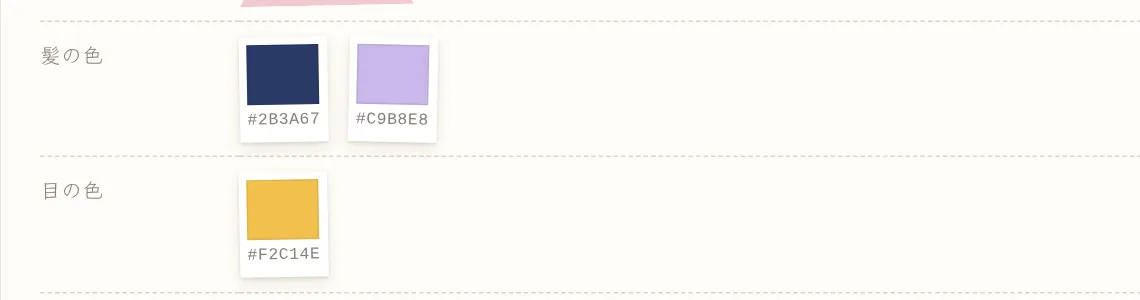
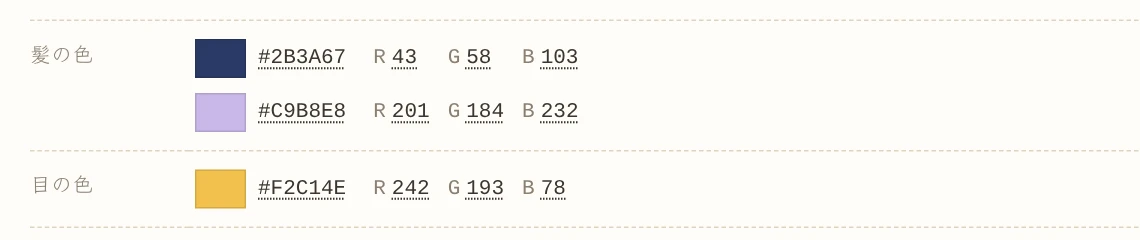
色の RGB を R・G・B ごとにコピーできる表示に変更、マニュアルを更新
Claude-Session: https://claude.ai/code/session_01TtRufu2XhManK9q9q8tut5

diff --git a/app.js b/app.js
@@ -654,7 +654,7 @@ function renderDetail() {
       `<div class="oshi-memo-text" ${memoOpen ? "" : "hidden"}>${esc(memo)}</div>`
     : `<span class="none">未登録</span>`}</dd>`;
 
-  // 色の行 (色見本・カラーコードを押すとカラーコード、RGB を押すと「43, 58, 103」の形でコピー)
+  // 色の行 (色見本・カラーコードを押すとカラーコード、R・G・B を押すとその数字だけをコピー)
   const colorRows = state.colorFields.filter((f) => !hidden.has(f.id)).map((f) => {
     const list = ((v.colors || {})[f.id] || []).filter(isHex);
     const swatches = list.length
@@ -662,7 +662,12 @@ function renderDetail() {
           `<div class="swatch">` +
           `<button type="button" class="swatch-main" data-copy="${hex}" title="押すとカラーコードをコピー">` +
           `<span class="swatch-color" style="background:${hex}"></span><span class="swatch-hex">${hex.toUpperCase()}</span></button>` +
-          `<button type="button" class="swatch-rgb" data-copy="${hexToRgb(hex)}" title="押すと RGB をコピー">RGB ${hexToRgb(hex)}</button>` +
+          `<div class="swatch-rgb">` +
+          hexToRgb(hex).map((n, i) => {
+            const k = "RGB"[i];
+            return `<button type="button" class="rgb-part" data-copy="${n}" title="押すと ${k} の値をコピー"><span class="rgb-key">${k}</span><span class="rgb-num">${n}</span></button>`;
+          }).join("") +
+          `</div>` +
           `</div>`
         ).join("")
       : `<span class="none">未登録</span>`;
@@ -1297,7 +1302,7 @@ const colorRowHtml = (hex) => `
   <div class="color-row">
     <input type="color" value="${hex}">
     <input type="text" class="hex" value="${hex}" maxlength="7" spellcheck="false">
-    <span class="rgb">RGB ${hexToRgb(hex)}</span>
+    <span class="rgb">${rgbText(hex)}</span>
     <button type="button" class="rm" title="この色を削除">✕</button>
   </div>`;
 
@@ -1383,10 +1388,12 @@ function normalizeHex(s) {
   return /^[0-9a-f]{6}$/.test(t) ? "#" + t : null;
 }
 
-// 「#2b3a67」→「43, 58, 103」(RGB の数字をカンマ区切りにする)
+// 「#2b3a67」→ [43, 58, 103] (R・G・B の数字 3 つ)
 function hexToRgb(hex) {
-  return [1, 3, 5].map((i) => parseInt(hex.slice(i, i + 2), 16)).join(", ");
+  return [1, 3, 5].map((i) => parseInt(hex.slice(i, i + 2), 16));
 }
+// 「#2b3a67」→「R 43 G 58 B 103」(編集画面の表示用)
+const rgbText = (hex) => hexToRgb(hex).map((n, i) => `${"RGB"[i]} ${n}`).join(" ");
 
 // カラー入力欄の操作 (中身が作り直されても動くよう、親要素でまとめて受け取る)
 $("#vtuber-inputs").addEventListener("click", (e) => {
@@ -1419,7 +1426,7 @@ $("#vtuber-inputs").addEventListener("input", (e) => {
     if (hex) picker.value = hex;
   }
   // RGB の表示も合わせる (ピッカーの色は常に正しい形なので、そこから計算)
-  row.querySelector(".rgb").textContent = "RGB " + hexToRgb(picker.value);
+  row.querySelector(".rgb").textContent = rgbText(picker.value);
 });
 
 $("#dlg-vtuber").addEventListener("close", () => {

diff --git a/style.css b/style.css
@@ -474,53 +474,51 @@ a.button:not([href]) { opacity: .4; pointer-events: none; }
 }
 
 /* ---------- 色の見本 (髪の色・目の色など) = 絵の具の色見本カード ---------- */
-.swatches { gap: 12px 14px !important; }
+.swatches { flex-direction: column; align-items: flex-start !important; gap: 6px !important; }
+/* 色 1 つ分の行: 「色の四角」「#カラーコード」「R 〇 G 〇 B 〇」を横に並べる (編集画面と同じ並び) */
 .swatch {
   display: flex;
-  flex-direction: column;
   align-items: center;
-  gap: 3px;
-  border: none;
-  border-radius: 0;
-  padding: 5px 5px 4px;
-  background: var(--photo);
-  box-shadow: 0 1px 2px var(--shadow), 0 4px 10px var(--shadow);
-  transform: rotate(-1deg);
+  gap: 10px;
+  flex-wrap: wrap;
 }
-.swatch:nth-child(2n) { transform: rotate(1.2deg); }
-.swatch:hover { transform: rotate(0) translateY(-2px); }
-/* 色見本の中の 2 つのボタン (枠や背景は付けず、カードの一部に見せる) */
-.swatch-main, .swatch-rgb {
+/* 色の四角 + カラーコード = カラーコードをコピーするボタン */
+.swatch-main, .rgb-part {
   display: flex;
-  flex-direction: column;
   align-items: center;
-  gap: 3px;
+  gap: 8px;
   border: none;
-  border-radius: 0;
-  padding: 0;
+  border-radius: 3px;
+  padding: 2px 4px;
   background: none;
 }
-.swatch-main:hover, .swatch-rgb:hover { background: none; transform: none; }
-.swatch-rgb {
-  font-size: 11px;
+.swatch-main:hover, .rgb-part:hover { background: var(--grid); transform: none; }
+/* R・G・B: それぞれ押すとその数字だけをコピー */
+.swatch-rgb { display: flex; gap: 4px; }
+.rgb-part {
+  gap: 4px;
+  font-size: 14px;
   font-family: ui-monospace, "SF Mono", Consolas, monospace;
   color: var(--muted);
   white-space: nowrap;
 }
-.swatch-rgb:hover, .swatch-main:hover .swatch-hex { color: var(--ink); text-decoration: underline; }
+.rgb-part .rgb-num { min-width: 3ch; text-align: left; color: var(--ink); text-decoration: underline dotted; text-underline-offset: 3px; }
+/* コピーしたボタンは少しの間、背景を付けて太字にする (✓ を付けると幅が変わるため) */
+.rgb-part.copied { font-weight: 700; background: var(--grid); }
 .swatch-color {
-  width: 48px;
-  height: 40px;
-  border: 1px solid rgba(0, 0, 0, .08);
+  width: 34px;
+  height: 26px;
+  border: 1px solid rgba(0, 0, 0, .12);
+  flex-shrink: 0;
 }
 .swatch-hex {
-  font-size: 11px;
+  font-size: 14px;
   font-family: ui-monospace, "SF Mono", Consolas, monospace;
-  color: var(--muted);
-  letter-spacing: .03em;
+  color: var(--ink);
+  text-decoration: underline dotted;
+  text-underline-offset: 3px;
 }
-.swatch-main.copied .swatch-hex::after,
-.swatch-rgb.copied::after { content: " ✓"; color: var(--ink); font-weight: 700; }
+.swatch-main.copied .swatch-hex::after { content: " ✓"; color: var(--ink); font-weight: 700; }
 
 /* 編集ダイアログの色の入力 */
 .color-edit { margin-bottom: 14px; }

diff --git a/manual.html b/manual.html
@@ -15,7 +15,7 @@
   <script src="theme.js?v=20261009-2"></script>
   <!-- ?v=… は「バージョン番号」。アプリを更新したら数字を変えると、
        スマホなどに残っている古いファイルではなく、新しいファイルが必ず読み込まれる -->
-  <link rel="stylesheet" href="style.css?v=20261013-8">
+  <link rel="stylesheet" href="style.css?v=20261013-14">
   <!-- デザインのファイルが読み込めなくても、画像が画面からはみ出さないようにする最低限の設定 -->
   <style>
     img { max-width: 100%; height: auto; }
@@ -146,9 +146,9 @@
       </ul>
 
       <h3>色（髪の色・目の色など）</h3>
-      <p>「編集」→ 色の項目の「＋ 色を追加」で登録します。カラーピッカーで選ぶか、<code>#2b3a67</code> のようなカラーコードを入力します。1 つの項目に何色でも登録できます。</p>
-      <figure><img src="manual/colors.webp" alt="登録した色" loading="lazy"></figure>
-      <p>色見本を押すと、カラーコードがコピーされます。お絵描きソフトの色の設定に貼り付けられます。画像からスポイトで拾うこともできます（<a href="#images">画像</a>で説明）。</p>
+      <p>「編集」→ 色の項目の「＋ 色を追加」で登録します。カラーピッカーで選ぶか、<code>#2b3a67</code> のようなカラーコードを入力します。1 つの項目に何色でも登録できます。カラーコードの横には R・G・B の数字も表示されます。</p>
+      <figure><img src="manual/colors.webp?v=20261013" alt="登録した色" loading="lazy"></figure>
+      <p>色の四角かカラーコードを押すとカラーコード（#2b3a67）、R・G・B の数字を押すとその数字だけ（例：R を押すと 43）がコピーされますので、貼り付けることができます。画像からスポイトで拾うこともできます（<a href="#images">画像</a>で説明）。</p>
 
       <h3>誕生日</h3>
       <p>「編集」→ 誕生日の月と日を選びます。年は入れても入れなくても大丈夫です。誕生日の 1 か月前から、画面の上にお知らせが出て「あと ○ 日」と数えてくれます。当日は「🎉 今日！」と出ます。カウントダウンがいらない推しは、「編集」で誕生日の「1 か月前からカウントダウン」のチェックを外してください（当日の「🎉 今日！」だけ出ます）。</p>

diff --git a/index.html b/index.html
@@ -20,7 +20,7 @@
   <script src="theme.js?v=20261009-2"></script>
   <!-- ?v=… は「バージョン番号」。アプリを更新したら数字を変えると、
        スマホなどに残っている古いファイルではなく、新しいファイルが必ず読み込まれる -->
-  <link rel="stylesheet" href="style.css?v=20261013-8">
+  <link rel="stylesheet" href="style.css?v=20261013-14">
 </head>
 <body>
   <!-- 読み込み中の表示 -->
@@ -207,6 +207,6 @@
   <!-- type="module" にすると import が使える -->
   <!-- zip の書き出し・読み込み用ライブラリ (JSZip, MIT ライセンス) -->
   <script src="lib/jszip.min.js"></script>
-  <script type="module" src="app.js?v=20261013-9"></script>
+  <script type="module" src="app.js?v=20261013-11"></script>
 </body>
 </html>
